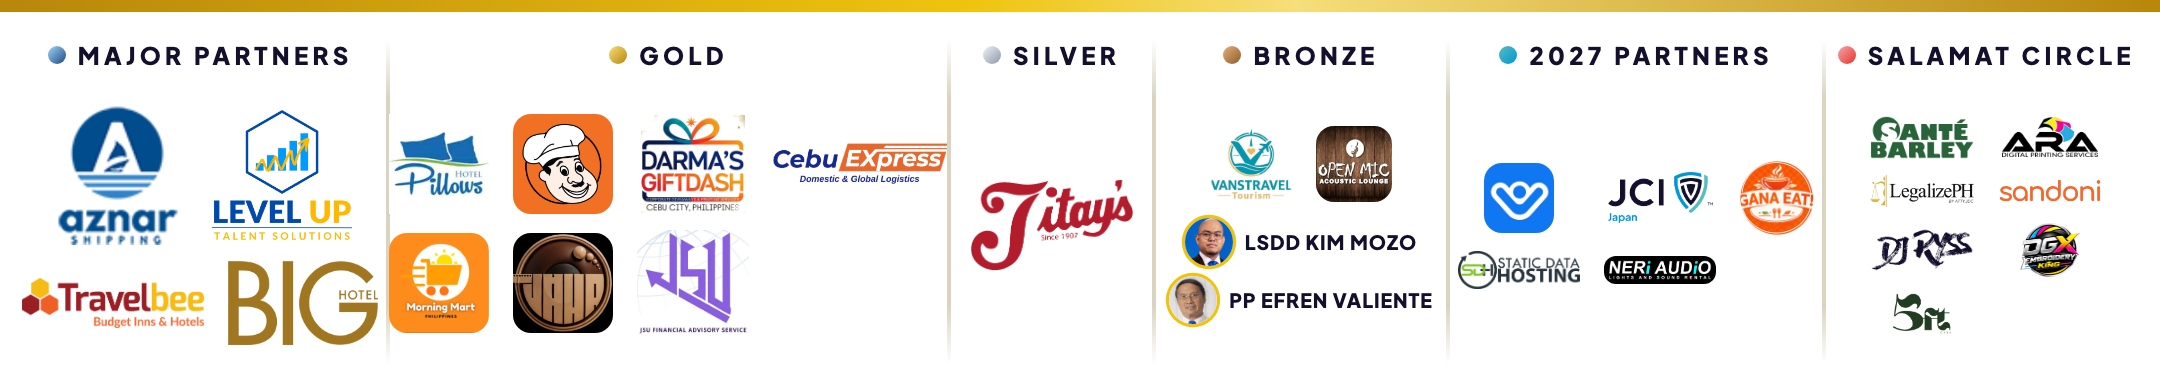
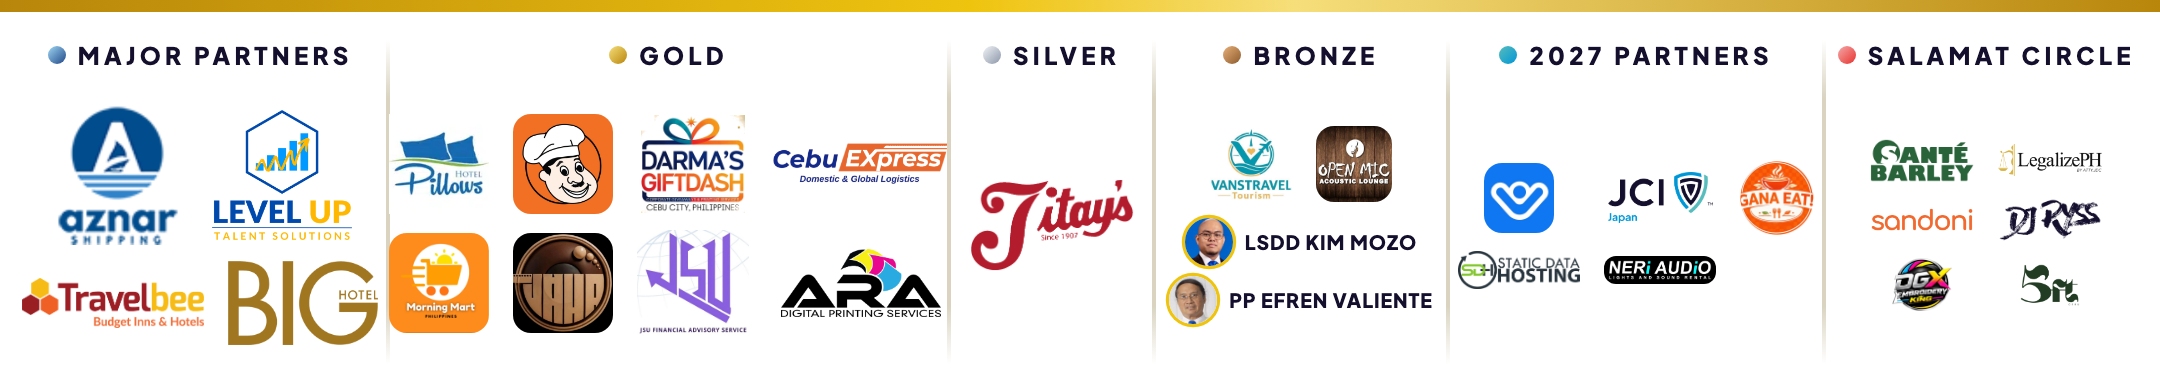
Partner footer: ARA moves to Gold

Changed region(s): [[0.8685, 0.3061, 0.9926, 0.8571], [0.3412, 0.6429, 0.4343, 0.8265]]

diff --git a/app.js b/app.js
@@ -962,7 +962,7 @@ let tt; function toast(m) { const t = $('#toast'); t.textContent = m; t.classLis
 (async () => {
   try { await Promise.all([500, 600, 700, 800, 400].map(w => document.fonts.load(`${w} 40px "Plus Jakarta Sans"`))); } catch {}
   [assets.stripNavy, assets.stripWhite, assets.footer, assets.frameTop, assets.frameBot] = await Promise.all(
-    ['assets/logo-lineup-2027-navy.png', 'assets/logo-lineup-2027-white.png', 'assets/partner-footer.png?v=b36a2050', 'assets/frame-top-white.png', 'assets/frame-bottom-white.png'].map(s => loadImg(s).catch(() => null)));
+    ['assets/logo-lineup-2027-navy.png', 'assets/logo-lineup-2027-white.png', 'assets/partner-footer.png?v=74ae247b', 'assets/frame-top-white.png', 'assets/frame-bottom-white.png'].map(s => loadImg(s).catch(() => null)));
   await Promise.all(roster.map(loadFace));
   drawRoster();
   // ?type=done opens on "Project done" (the photo set), ?type=recap on the single recap card, ?type=bodm on the BOD meeting attendance

diff --git a/index.html b/index.html
@@ -260,6 +260,6 @@ summary{cursor:pointer;font-weight:700}
 </main>
 <footer>JCI Cebu · 79th year. Check names, dates and partner details with the project chair before posting.</footer>
 <div class="toast" id="toast" role="status" aria-live="polite"></div>
-<script src="app.js?v=b36a2050"></script>
+<script src="app.js?v=74ae247b"></script>
 </body>
 </html>
